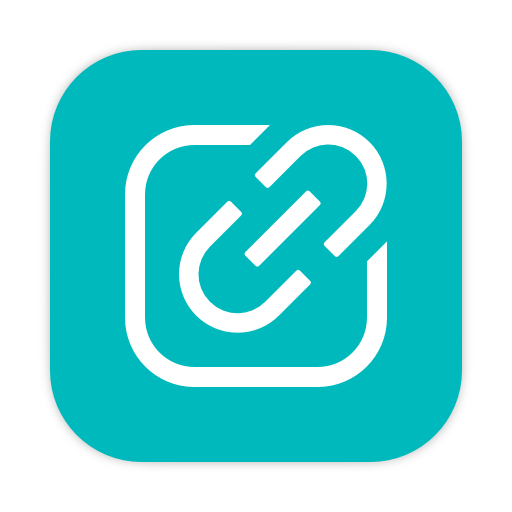
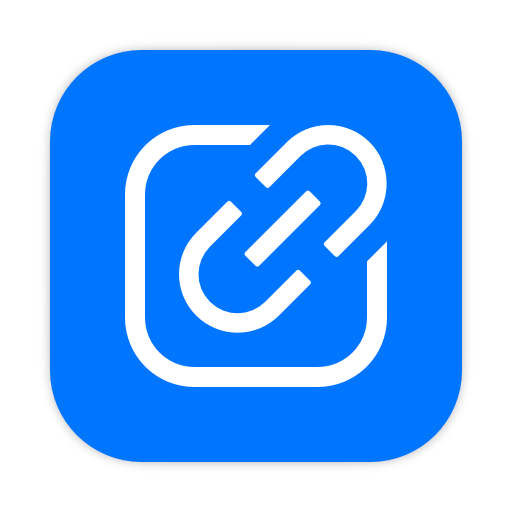
更新图标

diff --git a/README.md b/README.md
@@ -1,3 +1,9 @@
 # DAV Server
 
-🏗 施工中
+## 简介
+
+<img src="assets/icon.png" width="100px">
+
+![License](https://img.shields.io/badge/License-MIT-dark_green)
+
+这是一个用于搭建WebDAV服务的软件
